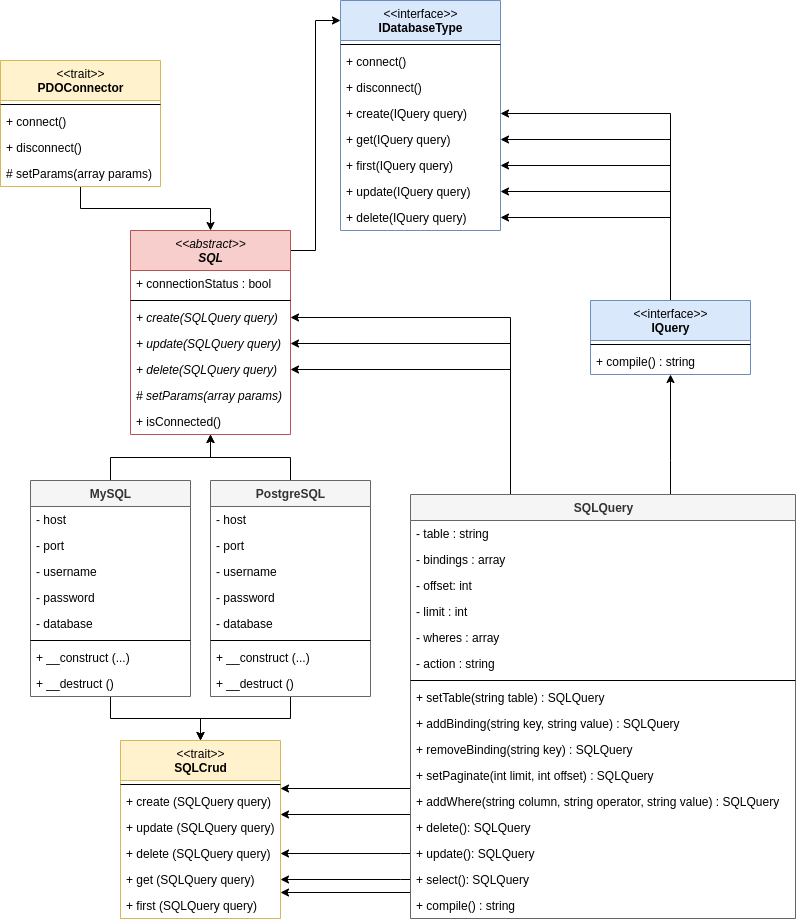
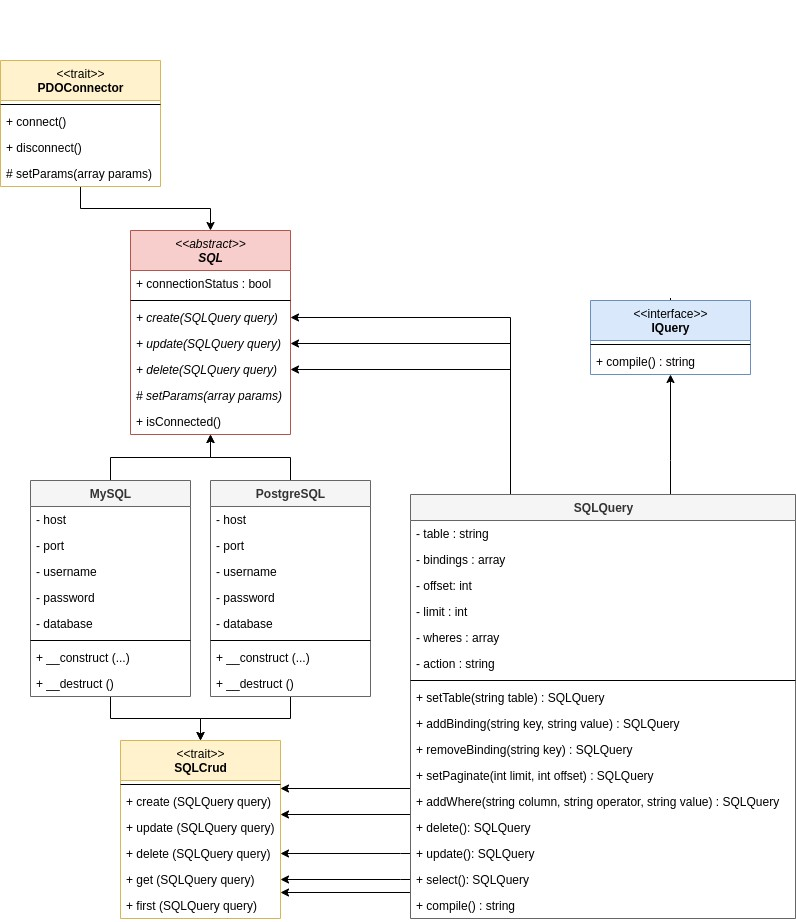
IDatabaseType removed from the homework.

diff --git a/test.php b/test.php
@@ -1,7 +1,6 @@
 <?php
 
 include "IQuery.php";
-include "IDatabaseType.php";
 include "PDOConnector.php";
 include "SQLQuery.php";
 include "SQL.php";
